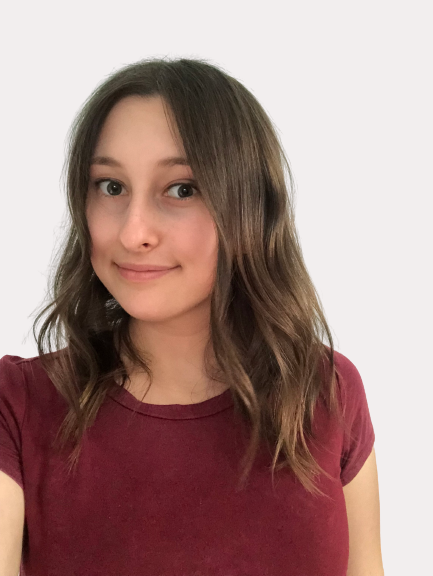
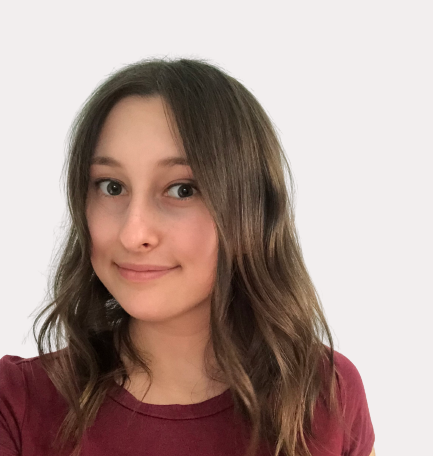
fixing format

diff --git a/js/data/teamData.js b/js/data/teamData.js
@@ -89,7 +89,7 @@ const members = [
     name: "Jessica C.",
     position: "Outreach Coordinator",
     program: "Honours Biochemistry - Co-op",
-    image: execPhotoPrefix("jessica.jpg"),
+    image: execPhotoPrefix("jessica.png"),
     linkedin: "",
   },
   {
